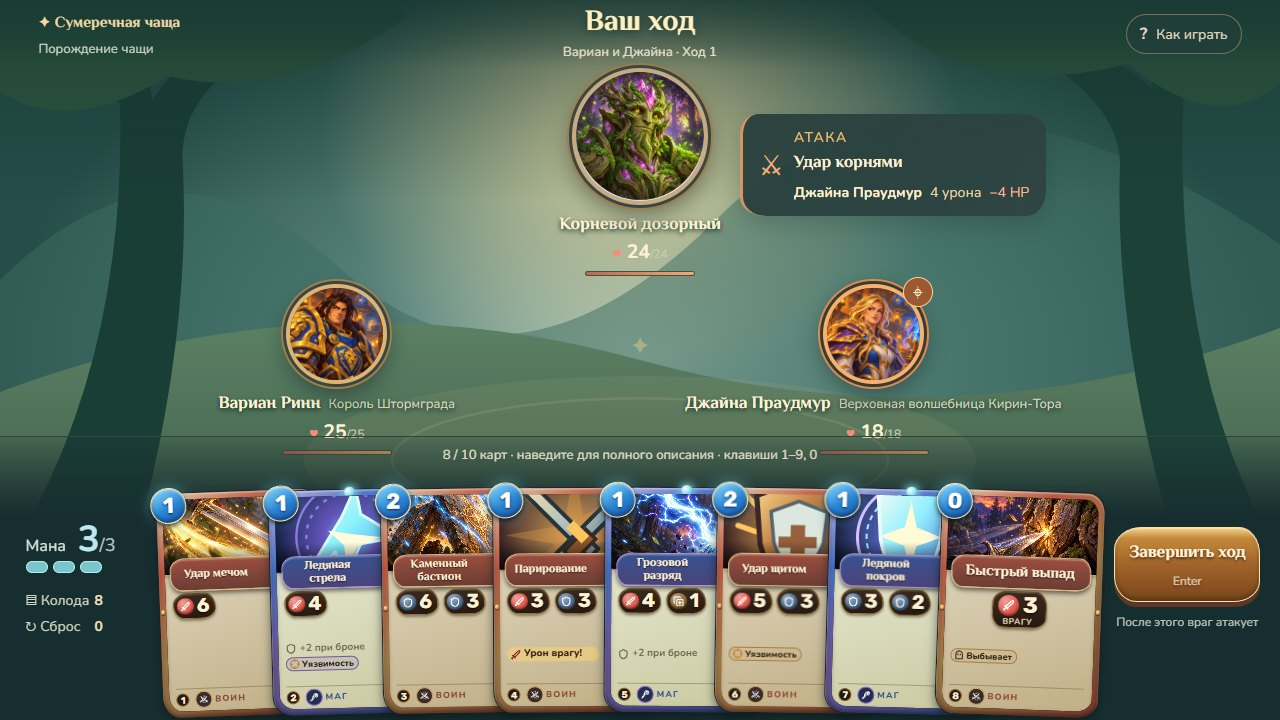
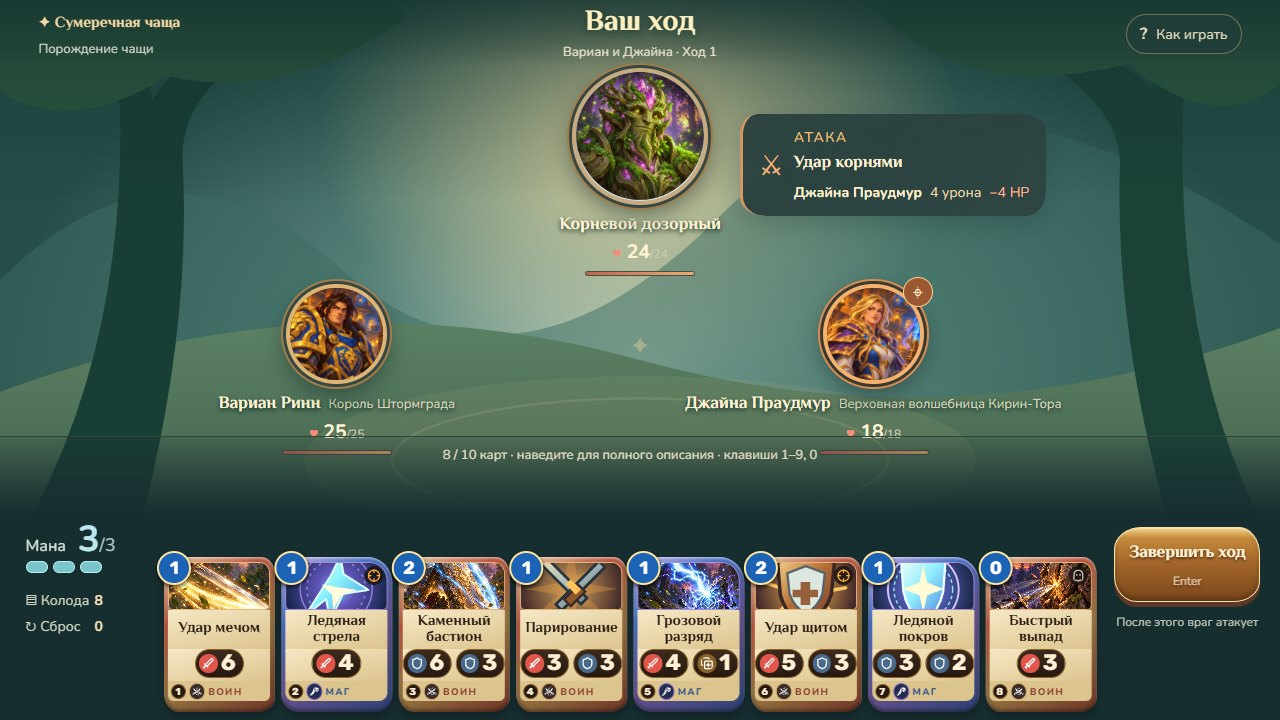
UX stage 2 rev 2: compact tile hand for dense hands
- handMode: full fan while >=75% of each card is visible, otherwise non-overlapping CompactCard tiles
- full card rises from the hovered/focused tile, kept inside the hand row; notes fold on short screens
- drop mana gem glow, trim redundant notes text; tests for handMode and notes
- screenshots and docs updated

Changed region(s): [[0.0938, 0.6722, 0.875, 1.0]]

diff --git a/src/components/BattleHand.vue b/src/components/BattleHand.vue
@@ -6,7 +6,7 @@ import GameTooltip from './GameTooltip.vue'
 import type { HandCardView } from '../composables/useBattle'
 import type { BattlePhase } from '../composables/useBattleAnimation'
 import type { CardBlock } from '../ui/cardDisplay'
-import { fanLayout, handOrder, zoomFactor, zoomShift } from '../ui/handLayout'
+import { handMode, handOrder, TILE_EM_HEIGHT, TILE_EM_WIDTH, zoomFactor, zoomShift } from '../ui/handLayout'
 
 const props = defineProps<{ cards: HandCardView[]; outgoing: HandCardView | null; outgoingIndex: number; drawCount: number; discardCount: number; exhaustedCount: number; phase: BattlePhase; mana: number; maxMana: number; nextMana?: number; nextDraw?: number; drawBoostFrom?: number; drawBoostAmount?: number }>()
 const emit = defineEmits<{ play: [instanceId: string]; endTurn: [] }>()
@@ -58,17 +58,22 @@ const zoom = computed(() => {
   const g = geometry.value
   return zoomFactor(g.bottom, g.dockTop, CARD_HEIGHT_EM * g.em, LIFT_EM * g.em, MAX_ZOOM)
 })
-const fan = computed(() => fanLayout(displayed.value.length, geometry.value.width, cardWidth.value, 0.5 * geometry.value.em))
-const visible = computed(() => fan.value.visible)
-const overlapped = computed(() => fan.value.overlapped)
-const slotX = (index: number) => fan.value.x(index)
+const mode = computed(() => handMode(displayed.value.length, geometry.value.width, cardWidth.value, 0.45 * geometry.value.em))
+const compact = computed(() => mode.value.compact)
+const slotWidth = computed(() => mode.value.slotWidth)
+const visible = computed(() => (compact.value ? 1 : mode.value.layout.visible))
+const overlapped = computed(() => !compact.value && mode.value.layout.overlapped)
+const tileEm = computed(() => slotWidth.value / TILE_EM_WIDTH)
+const slotX = (index: number) => mode.value.layout.x(index)
 
 const active = shallowRef<string | null>(null)
 const activeIndex = computed(() => displayed.value.findIndex(item => item.instanceId === active.value))
 const activeItem = computed(() => (activeIndex.value >= 0 && props.outgoing?.instanceId !== active.value ? displayed.value[activeIndex.value]! : null))
-const shiftFor = (index: number) => zoomShift(geometry.value.left + slotX(index) + cardWidth.value / 2, cardWidth.value * zoom.value, geometry.value.viewport)
+// Kept inside the hand row, so a zoomed end card does not climb over the end-turn button or the mana panel.
+const shiftFor = (index: number) => zoomShift(slotX(index) + slotWidth.value / 2, cardWidth.value * zoom.value, geometry.value.width, 0)
 function slotStyle(index: number) {
-  return { width: cardWidth.value + 'px', transform: `translateX(${slotX(index).toFixed(1)}px)`, zIndex: index === activeIndex.value ? 60 : index + 1 }
+  const tile = compact.value ? { height: TILE_EM_HEIGHT * tileEm.value + 'px', fontSize: tileEm.value + 'px' } : {}
+  return { ...tile, width: slotWidth.value + 'px', transform: `translateX(${slotX(index).toFixed(1)}px)`, zIndex: index === activeIndex.value ? 60 : index + 1 }
 }
 function holderStyle(index: number) {
   const middle = (displayed.value.length - 1) / 2
@@ -81,12 +86,14 @@ const notesStyle = computed(() => {
   const index = activeIndex.value
   if (index < 0) return {}
   const zoomed = cardWidth.value * zoom.value
-  const left = g.left + slotX(index) + shiftFor(index) - (zoomed - cardWidth.value) / 2
+  const left = g.left + slotX(index) + shiftFor(index) - (zoomed - slotWidth.value) / 2
   const right = left + zoomed
   const bottom = Math.max(8, window.innerHeight - g.bottom + LIFT_EM * g.em)
   const base = { bottom: bottom + 'px', maxHeight: `calc(100vh - ${bottom + 16}px)`, fontSize: `${Math.max(13, Math.min(16, g.em * 1.05))}px` }
   return g.viewport - right - 14 >= NOTES_WIDTH ? { ...base, left: right + 14 + 'px' } : { ...base, right: g.viewport - left + 14 + 'px' }
 })
+// Little height above the hand (short screens): fold the notes instead of letting them cover the heroes.
+const briefNotes = computed(() => geometry.value.bottom + LIFT_EM * geometry.value.em - geometry.value.dockTop < 340)
 function enter(item: HandCardView) { if (props.outgoing?.instanceId !== item.instanceId) active.value = item.instanceId }
 function leave(item: HandCardView) { if (active.value === item.instanceId) active.value = null }
 function focusOut(item: HandCardView, event: FocusEvent) {
@@ -106,11 +113,11 @@ watch(() => displayed.value.length, () => { if (activeIndex.value < 0) active.va
     </aside>
     <section class="hand-area" aria-label="Карты в руке">
       <p class="hand-hint">{{ displayed.length }} / 10 карт · наведите для полного описания · клавиши 1–9, 0</p>
-      <div ref="track" class="hand-track" :class="{ 'is-overlapped': overlapped }">
+      <div ref="track" class="hand-track" :class="{ 'is-overlapped': overlapped, 'is-compact': compact }">
         <TransitionGroup name="deal">
           <div v-for="(item, index) in displayed" :key="item.instanceId" class="slot" :class="{ 'is-active': index === activeIndex }" :style="slotStyle(index)" @mouseenter="enter(item)" @mouseleave="leave(item)" @focusin="enter(item)" @focusout="focusOut(item, $event)">
             <div class="holder" :style="holderStyle(index)">
-              <HandCard :card="item.card" :instance-id="item.instanceId" :preview="item.preview" :block="block(item)" :index="index" :vis="index === displayed.length - 1 || index === activeIndex ? 1 : visible" :playing="outgoing?.instanceId === item.instanceId" @play="emit('play', $event)" />
+              <HandCard :card="item.card" :instance-id="item.instanceId" :preview="item.preview" :block="block(item)" :index="index" :vis="index === displayed.length - 1 || index === activeIndex ? 1 : visible" :compact="compact" :active="index === activeIndex" :full-shift="index === activeIndex ? shiftFor(index) : 0" :full-scale="zoom" :full-em="geometry.em" :playing="outgoing?.instanceId === item.instanceId" @play="emit('play', $event)" />
             </div>
           </div>
         </TransitionGroup>
@@ -121,7 +128,7 @@ watch(() => displayed.value.length, () => { if (activeIndex.value < 0) active.va
     <Teleport to="body">
       <Transition name="notes">
         <div v-if="activeItem" class="card-notes-pop" :style="notesStyle" aria-hidden="true">
-          <CardNotes :card="activeItem.card" :preview="activeItem.preview" :block="block(activeItem)" :hotkey="String(activeIndex === 9 ? 0 : activeIndex + 1)" />
+          <CardNotes :brief="briefNotes" :card="activeItem.card" :preview="activeItem.preview" :block="block(activeItem)" :hotkey="String(activeIndex === 9 ? 0 : activeIndex + 1)" />
         </div>
       </Transition>
     </Teleport>
@@ -134,8 +141,8 @@ watch(() => displayed.value.length, () => { if (activeIndex.value < 0) active.va
 .hand-track{position:relative;align-self:end;height:calc(var(--card-height) + 4px);margin-bottom:8px;font-size:calc(var(--card-height) / 16.6)}
 .slot{position:absolute;left:0;bottom:0;height:16.6em;transition:transform var(--dur-base) var(--ease-out),opacity var(--dur-base)}
 .holder{width:100%;height:100%;transform-origin:50% 100%;transform:translateY(var(--drop,0)) rotate(var(--rot,0deg));transition:transform var(--dur-base) var(--ease-out)}
-.slot.is-active .holder{transform:translate(var(--shift,0),calc(-1 * var(--lift))) scale(var(--zoom));transition-duration:var(--dur-fast)}
-.slot.is-active .holder :deep(.sc-rim){box-shadow:0 .9em 1.6em #04101299,inset 0 .1em .12em #fff7,inset 0 -.18em .3em #0006}
+.hand-track:not(.is-compact) .slot.is-active .holder{transform:translate(var(--shift,0),calc(-1 * var(--lift))) scale(var(--zoom));transition-duration:var(--dur-fast)}
+.hand-track:not(.is-compact) .slot.is-active .holder :deep(.sc-rim){box-shadow:0 .9em 1.6em #04101299,inset 0 .1em .12em #fff7,inset 0 -.18em .3em #0006}
 .deal-enter-from,.deal-leave-to{opacity:0}
 .deal-enter-from .holder{transform:translateY(5em) scale(.9)}
 .deal-leave-active{transition:opacity .12s}

diff --git a/src/components/CompactCard.vue b/src/components/CompactCard.vue
@@ -1,0 +1,66 @@
+<script setup lang="ts">
+// Hand tile: the card reduced to what decides a choice at a glance — name, cost, class and the main numbers.
+// Sized in `em` (tile = 7.2em × 10em); the full SpellCard opens on hover/focus. Same colours and soft shapes as the full card.
+import { computed } from 'vue'
+import type { CardDefinition, CardPreview } from '../game/types'
+import { classThemeStyle, getClassTheme } from '../game/classThemes'
+import { cardFace } from '../ui/cardDisplay'
+import type { CardBlock } from '../ui/cardDisplay'
+import { cardArt } from '../ui/cardArt'
+import CardGlyph from './CardGlyph.vue'
+
+const props = defineProps<{ card: CardDefinition; preview: CardPreview; block?: CardBlock | null; hotkey?: string }>()
+const theme = computed(() => getClassTheme(props.card.className))
+const face = computed(() => cardFace(props.card, props.preview))
+const locked = computed(() => props.block?.kind === 'mana')
+const bonus = computed(() => !props.block && props.preview.bonusDamage > 0)
+const style = computed(() => classThemeStyle(props.card.className))
+</script>
+
+<template>
+  <span class="tc" :class="[`tc--${theme.ornament}`, { 'is-locked': locked, 'is-dim': block?.kind === 'phase', 'is-bonus': bonus }]" :style="style" :data-card-class="theme.id">
+    <span class="tc-art">
+      <img :src="cardArt[card.id]" alt="" draggable="false" />
+      <span class="tc-marks"><CardGlyph v-for="tag in face.tags" :key="tag.id" :kind="tag.glyph" /></span>
+      <CardGlyph v-if="locked" kind="lock" class="tc-lock" />
+    </span>
+    <span class="tc-cost" aria-hidden="true">{{ card.cost }}</span>
+    <span class="tc-name">{{ card.name }}</span>
+    <span class="tc-stats">
+      <span v-for="(chip, i) in face.chips" :key="i" class="chip" :class="['chip--' + chip.kind, { 'is-boosted': chip.boosted, 'is-inactive': chip.inactive }]"><CardGlyph :kind="chip.kind" /><b>{{ chip.value }}</b></span>
+    </span>
+    <span class="tc-foot"><kbd v-if="hotkey">{{ hotkey }}</kbd><i class="tc-emblem"><img :src="theme.emblem" alt="" draggable="false" /></i><span>{{ theme.label }}</span></span>
+  </span>
+</template>
+
+<style scoped>
+.tc{position:relative;display:grid;grid-template-rows:3.1em 2.5em 2.1em 1.3em;width:7.2em;height:10em;padding:.3em;border-radius:1.1em .9em 1.2em 1em/.95em 1.15em .9em 1.2em;background:linear-gradient(145deg,color-mix(in srgb,var(--class-accent) 55%,#fff),var(--class-primary) 30%,color-mix(in srgb,var(--class-accent) 70%,#000) 60%,color-mix(in srgb,var(--class-primary) 60%,#000));box-shadow:0 .3em .6em #0a181a99,inset 0 .1em .1em #fff7,inset 0 -.15em .25em #0006;color:var(--parch-ink);text-align:left;font-family:var(--font-ui)}
+.tc--arcane{border-radius:1.6em 1.6em 1.1em 1.2em/1.5em 1.7em 1.2em 1.1em}
+.tc>*{pointer-events:none}
+.tc-art{position:relative;display:block;overflow:hidden;border-radius:.8em .7em .3em .3em;background:var(--class-surface);border:.1em solid color-mix(in srgb,var(--class-accent) 80%,#fff)}
+.tc--arcane .tc-art{border-radius:1.2em 1.2em .3em .3em}
+.tc-art img{position:absolute;inset:0;width:100%;height:100%;object-fit:cover;object-position:center 45%}
+.tc-marks{position:absolute;right:.2em;top:.2em;display:flex;gap:.15em}
+.tc-marks .glyph{width:1.25em;height:1.25em;padding:.2em;border-radius:50%;background:#1b1210d0;color:var(--c-vulnerable)}
+.tc-marks .glyph--exhaust{color:var(--muted)}
+.tc-lock{position:absolute;left:50%;top:50%;width:1.6em;height:1.6em;translate:-50% -50%;padding:.3em;border-radius:50%;background:#1b1210e0;color:var(--c-health)}
+.tc-cost{position:absolute;z-index:2;left:-.35em;top:-.35em;display:grid;place-items:center;width:1.9em;height:1.9em;border-radius:50%;background:var(--c-mana-deep);border:.12em solid var(--brass-1);box-shadow:0 .12em .25em #000a;color:#fff;font:700 1.15em/1 var(--font-num)}
+.tc-name{display:grid;place-items:center;padding:.1em .2em 0;background:linear-gradient(165deg,var(--parch-1),var(--parch-2));text-align:center;font:700 .98em/1.05 var(--font-display);color:var(--parch-ink)}
+.tc-name{display:-webkit-box;-webkit-box-orient:vertical;-webkit-line-clamp:2;overflow:hidden;align-content:center;padding:.3em .25em}
+.tc-stats{display:flex;align-items:center;justify-content:center;gap:.25em;background:linear-gradient(165deg,var(--parch-1),var(--parch-2));padding-bottom:.15em}
+.chip{display:inline-flex;align-items:center;gap:.2em;padding:.15em .45em .15em .25em;border-radius:var(--r-pill);background:linear-gradient(180deg,var(--wood-2),var(--wood-1));border:.08em solid var(--brass-3);color:var(--ink)}
+.chip .glyph{width:1.2em;height:1.2em;padding:.18em;border-radius:50%;color:#fff;background:var(--chip-c)}
+.chip b{font:700 1.45em/1 var(--font-num)}
+.chip--damage{--chip-c:var(--c-health)}.chip--armor{--chip-c:var(--c-armor-deep)}.chip--draw{--chip-c:var(--brass-3)}
+.chip.is-boosted{border-color:var(--c-bonus)}.chip.is-boosted b{color:var(--c-bonus)}
+.chip.is-inactive{opacity:.55;border-style:dashed}
+.tc-foot{display:flex;align-items:center;gap:.3em;padding:.1em .3em 0;border-radius:0 0 .6em .6em;background:linear-gradient(165deg,var(--parch-2),var(--parch-2));font:800 .62em/1 var(--font-ui);letter-spacing:var(--ls-caps);color:color-mix(in srgb,var(--class-primary) 70%,var(--parch-ink))}
+.tc--arcane .tc-foot{border-radius:0 0 .9em .9em}
+.tc-foot kbd{display:inline-grid;place-items:center;min-width:1.5em;height:1.5em;border-radius:var(--r-1);border:.08em solid var(--brass-3);background:var(--wood-1);color:var(--ink);font:700 1.05em/1 var(--font-num)}
+.tc-emblem{display:grid;place-items:center;width:1.7em;height:1.7em;padding:.25em;border-radius:50%;background:var(--class-surface);border:.1em solid var(--class-accent)}
+.tc-emblem img{width:100%;height:100%;display:block}
+.is-locked{filter:saturate(.45) brightness(.8)}
+.is-locked .tc-cost{background:#4b4249;color:var(--c-health);border-color:var(--c-health)}
+.is-dim{filter:saturate(.7) brightness(.88)}
+.is-bonus{box-shadow:0 0 0 .12em var(--c-bonus),var(--glow-bonus),0 .3em .6em #0a181a99}
+</style>

diff --git a/src/ui/cardDisplay.test.ts b/src/ui/cardDisplay.test.ts
@@ -3,10 +3,10 @@ import { createSSRApp, h } from 'vue'
 import { renderToString } from 'vue/server-renderer'
 import { createBattle, previewCard } from '../game/battle'
 import { availableDungeonNodes, claimDungeonReward, createCampaignBattle, createDungeonRun, deriveDungeonSeed, dungeonEncounter, dungeonNode, dungeonRewardOptions, enterDungeonNode, resolveDungeonBattle } from '../game/campaign'
-import { cardDefinition, cards, encounters, MAX_HAND_SIZE } from '../game/types'
+import { cardDefinition, cards, encounters } from '../game/types'
 import type { BattleState, CardDefinition, CardId } from '../game/types'
 import { cardFace, cardNotes, damageParts, neutralPreview, ruleLines, spokenSummary, statChips } from './cardDisplay'
-import { fanLayout, handOrder, zoomFactor, zoomShift } from './handLayout'
+import { COMPACT_BELOW, fanLayout, handMode, handOrder, zoomFactor, zoomShift } from './handLayout'
 import SpellCard from '../components/SpellCard.vue'
 import CardReward from '../components/CardReward.vue'
 
@@ -28,7 +28,8 @@ describe('damage chips mirror the engine preview', () => {
     expect(damageParts(p).map(part => [part.kind, part.amount])).toEqual([['base', 4], ['armor', 2], ['vulnerability', 3]])
     const notes = cardNotes(card('frostbolt'), p)
     expect(notes.damage?.formula).toBe('4 + 2 + 3 = 9')
-    expect(notes.conditions.map(line => line.tone)).toEqual(['on', 'on'])
+    expect(notes.conditions).toEqual([])
+    expect(notes.keywords.map(key => key.name)).toEqual(['Уязвимость'])
   })
 
   it('adds only the bonuses that are active', () => {
@@ -95,7 +96,6 @@ describe('armor, draw, exhaust and keywords', () => {
     expect(chips).toHaveLength(1)
     expect(chips[0]).toMatchObject({ kind: 'draw', value: 1, caption: 'карта' })
     expect(cardNotes(card('thunderbolt'), preview('thunderbolt', board())).draw).toBe(1)
-    expect(cardNotes(card('arcane-insight'), preview('arcane-insight', board())).keywords.some(key => key.glyph === 'draw' && key.text.includes(String(MAX_HAND_SIZE)))).toBe(true)
   })
 
   it('marks exhaust and explains it', () => {
@@ -224,5 +224,20 @@ describe('hand layout', () => {
     expect(zoomFactor(712, 436, 224, 7)).toBeLessThan(1.32)
     expect(zoomFactor(712, 436, 224, 7)).toBeGreaterThanOrEqual(1.1)
     expect(zoomFactor(900, 100, 224, 7)).toBe(1.32)
+  })
+
+  it('switches to non-overlapping tiles when a fan would hide too much, and every tile stays reachable', () => {
+    const wide = handMode(10, 1380, 210, 9)
+    const narrow = handMode(10, 950, 162, 7)
+    expect(narrow.compact).toBe(true)
+    expect(narrow.layout.overlapped).toBe(false)
+    expect(narrow.slotWidth).toBeLessThanOrEqual(162 * 0.8)
+    for (let i = 1; i < 10; i += 1) expect(narrow.layout.x(i) - narrow.layout.x(i - 1)).toBeGreaterThanOrEqual(narrow.slotWidth)
+    expect(narrow.layout.x(9) + narrow.slotWidth).toBeLessThanOrEqual(950 + 0.001)
+    expect(narrow.slotWidth).toBeGreaterThan(80)
+    // a roomy row keeps full cards; the rule is the visible fraction of the fan
+    expect(handMode(3, 950, 162, 7).compact).toBe(false)
+    expect(wide.compact).toBe(fanLayout(10, 1380, 210, 9).visible < COMPACT_BELOW)
+    expect(handMode(0, 950, 162, 7).compact).toBe(false)
   })
 })

diff --git a/src/ui/cardDisplay.ts b/src/ui/cardDisplay.ts
@@ -1,7 +1,7 @@
 // Presentation model for a card: turns a CardDefinition plus the engine's CardPreview into glanceable chips,
 // short rule lines and the detailed notes shown on hover. It only presents numbers the engine already computed
 // (previewCard); it never re-implements damage rules. New cards need effects/tags in types.ts, not UI code.
-import { encounters, MAX_HAND_SIZE, statusDefinitions } from '../game/types'
+import { encounters, statusDefinitions } from '../game/types'
 import type { BattleState, CardDefinition, CardEffect, CardPreview, HeroId } from '../game/types'
 import { createBattle, previewCard } from '../game/battle'
 
@@ -142,10 +142,11 @@ export function cardNotes(card: CardDefinition, preview: CardPreview, context: '
   const armor = context === 'neutral'
     ? card.effects.flatMap(effect => effect.type === 'armor' ? [{ hero: effect.target, name: effect.target === 'threatened' ? 'цели врага' : effect.target === 'partner' ? 'напарнику' : heroDative[effect.target], amount: effect.amount }] : [])
     : (['warrior', 'mage'] as const).map(hero => ({ hero, name: heroName[hero], amount: preview.armor[hero] })).filter(item => item.amount > 0)
-  if (armor.length && context === 'board') keywords.push({ glyph: 'armor', name: 'Броня', text: 'Поглощает урон и исчезает после следующей атаки по герою. «Цель» — герой, которого атакует противник.' })
+  if (context === 'board' && card.effects.some(effect => effect.type === 'armor' && effect.target === 'threatened')) keywords.push({ glyph: 'armor', name: 'Броня', text: 'Поглощает урон и исчезает после следующей атаки по герою. «Цель» — герой, которого атакует противник.' })
   if (card.exhaust) keywords.push({ glyph: 'exhaust', name: 'Выбывает', text: 'Эта копия не вернётся в колоду до конца боя.' })
-  if (preview.draw > 0 && context === 'board') keywords.push({ glyph: 'draw', name: 'Добор', text: `Берёт карты из колоды; в руке не больше ${MAX_HAND_SIZE}, лишние остаются в колоде.` })
 
+  // The sum above already names every active bonus, so repeating them as sentences only makes the notes taller.
+  const shownConditions = parts.length > 1 ? conditions.filter(line => line.tone !== 'on' || line.glyph === 'damage') : conditions
   return {
     title: card.name,
     subtitle: `${card.className === 'warrior' ? 'Воин' : 'Маг'} · ${kindLabel[card.kind]} · ${card.cost} ${plural(card.cost, 'мана', 'маны', 'маны')}`,
@@ -153,7 +154,7 @@ export function cardNotes(card: CardDefinition, preview: CardPreview, context: '
     damage: preview.damage > 0
       ? { total: preview.damage, parts, formula: parts.length > 1 ? `${parts.map(part => part.amount).join(' + ')} = ${preview.damage}` : String(preview.damage), armorDamage: preview.armorDamage, healthDamage: preview.healthDamage }
       : null,
-    armor, draw: preview.draw, conditions, keywords,
+    armor, draw: preview.draw, conditions: shownConditions, keywords,
   }
 }
 

diff --git a/src/components/HandCard.vue b/src/components/HandCard.vue
@@ -6,8 +6,9 @@ import { getClassTheme } from '../game/classThemes'
 import { spokenSummary } from '../ui/cardDisplay'
 import type { CardBlock } from '../ui/cardDisplay'
 import SpellCard from './SpellCard.vue'
+import CompactCard from './CompactCard.vue'
 
-const props = defineProps<{ card: CardDefinition; instanceId: string; preview: CardPreview; block: CardBlock | null; playing: boolean; index: number; vis?: number }>()
+const props = defineProps<{ card: CardDefinition; instanceId: string; preview: CardPreview; block: CardBlock | null; playing: boolean; index: number; vis?: number; compact?: boolean; active?: boolean; fullShift?: number; fullScale?: number; fullEm?: number }>()
 const emit = defineEmits<{ play: [instanceId: string] }>()
 const hotkey = computed(() => String(props.index === 9 ? 0 : props.index + 1))
 const label = computed(() => `${hotkey.value}. ${props.card.name}, ${props.card.cost} маны. Класс: ${getClassTheme(props.card.className).name}. ${spokenSummary(props.card, props.preview)}${props.block ? ' ' + props.block.text : ''}`)
@@ -19,14 +20,23 @@ function play() {
 
 <template>
   <button :id="'card-' + instanceId" class="hand-card" :class="{ 'is-playing': playing }" :aria-disabled="!!block || playing" :aria-label="label" @click="play">
-    <SpellCard :card="card" :preview="preview" :block="block" :hotkey="hotkey" :vis="vis" />
+    <template v-if="compact">
+      <CompactCard :card="card" :preview="preview" :block="block" :hotkey="hotkey" />
+      <span v-if="active" class="hand-full" :style="{ fontSize: (fullEm ?? 14) + 'px', '--shift': (fullShift ?? 0) + 'px', '--zoom': String(fullScale ?? 1.2) }"><SpellCard :card="card" :preview="preview" :block="block" :hotkey="hotkey" /></span>
+    </template>
+    <SpellCard v-else :card="card" :preview="preview" :block="block" :hotkey="hotkey" :vis="vis" />
   </button>
 </template>
 
 <style scoped>
-.hand-card{display:block;width:12em;height:16.6em;padding:0;border:0;background:none;border-radius:1.6em;font-size:inherit;text-align:left;cursor:pointer}
+.hand-card{position:relative;display:block;width:100%;height:100%;padding:0;border:0;background:none;border-radius:1.6em;font-size:inherit;text-align:left;cursor:pointer}
 .hand-card[aria-disabled="true"]{cursor:default}
 .hand-card:focus-visible{outline:var(--focus-ring);outline-offset:.25em}
 .is-playing{pointer-events:none;animation:card-play .36s ease-in forwards}
 @keyframes card-play{to{transform:translateY(-6em) scale(.55);opacity:0}}
+</style>
+<style>
+/* Compact hand: the full card rises from the tile, centred over it, nudged back inside the screen. */
+.hand-full{position:absolute;left:50%;bottom:0;z-index:5;display:block;transform-origin:50% 100%;transform:translateX(calc(-50% + var(--shift))) translateY(-.5em) scale(var(--zoom));animation:hand-full-in var(--dur-fast) var(--ease-out);pointer-events:none}
+@keyframes hand-full-in{from{opacity:0;transform:translateX(calc(-50% + var(--shift))) translateY(.4em) scale(calc(var(--zoom) * .92))}}
 </style>

diff --git a/src/components/CardNotes.vue b/src/components/CardNotes.vue
@@ -8,13 +8,13 @@ import type { CardBlock } from '../ui/cardDisplay'
 import { classThemeStyle } from '../game/classThemes'
 import CardGlyph from './CardGlyph.vue'
 
-const props = defineProps<{ card: CardDefinition; preview: CardPreview; block?: CardBlock | null; hotkey?: string; mode?: 'play' | 'choose' }>()
+const props = defineProps<{ card: CardDefinition; preview: CardPreview; block?: CardBlock | null; hotkey?: string; mode?: 'play' | 'choose'; brief?: boolean }>()
 const notes = computed(() => cardNotes(props.card, props.preview, props.mode === 'choose' ? 'neutral' : 'board'))
 const footer = computed(() => props.block?.text ?? (props.mode === 'choose' ? 'Нажмите, чтобы взять карту.' : `Нажмите или клавиша ${props.hotkey ?? ''} — разыграть.`))
 </script>
 
 <template>
-  <aside class="notes" :style="classThemeStyle(card.className)">
+  <aside class="notes" :class="{ 'notes--brief': brief }" :style="classThemeStyle(card.className)">
     <header><strong v-if="mode !== 'choose'">{{ notes.title }}</strong><small>{{ notes.subtitle }}</small></header>
     <p class="notes-text">{{ notes.description }}</p>
     <div v-if="notes.damage" class="notes-math notes-math--damage">
@@ -59,6 +59,9 @@ header small{font:var(--fw-bold) .68em/1.2 var(--font-ui);letter-spacing:.1em;te
 .notes-keys dt{display:flex;align-items:center;gap:.4em;font:var(--fw-bold) .82em/1.2 var(--font-ui)}
 .notes-keys dt .glyph{width:1.2em;height:1.2em;color:var(--brass-4)}
 .notes-keys dd{margin:.15em 0 0;font:var(--fw-semibold) .76em/1.3 var(--font-ui);color:var(--parch-ink-soft)}
+/* Short screens: the scroll must not climb over the heroes, so the keyword explanations (also on the enemy portrait) fold to titles. */
+.notes--brief .notes-keys dd,.notes--brief .notes-sub{display:none}
+.notes--brief .notes-keys div{padding:.25em .6em}
 footer{margin-top:.55em;padding-top:.4em;border-top:.08em solid #8a622c88;font:var(--fw-bold) .76em/1.3 var(--font-ui);color:#4f6d2a}
 footer.bad{color:#9a2a1c}
 </style>

diff --git a/src/components/SpellCard.vue b/src/components/SpellCard.vue
@@ -115,7 +115,7 @@ const style = computed(() => ({ ...classThemeStyle(props.card.className), '--vis
 .sc-class{display:flex;align-items:center;gap:.35em;font:800 .64em/1 var(--font-ui);letter-spacing:var(--ls-caps);color:color-mix(in srgb,var(--class-primary) 70%,var(--parch-ink))}
 .sc-emblem{display:grid;place-items:center;width:1.9em;height:1.9em;padding:.28em;border-radius:50%;background:var(--class-surface);border:.1em solid var(--class-accent)}
 .sc-emblem img{width:100%;height:100%;display:block}
-.sc-cost{position:absolute;z-index:3;left:-.45em;top:-.45em;display:grid;place-items:center;width:2.7em;height:2.7em;border-radius:var(--shape-medallion);background:var(--mat-gem-mana);border:.14em solid var(--brass-1);box-shadow:0 .2em .4em #000a,inset 0 .1em .15em #fff9,inset 0 -.2em .3em #0b2a6a88,var(--glow-mana);color:#fff}
+.sc-cost{position:absolute;z-index:3;left:-.45em;top:-.45em;display:grid;place-items:center;width:2.7em;height:2.7em;border-radius:var(--shape-medallion);background:var(--mat-gem-mana);border:.14em solid var(--brass-1);box-shadow:0 .2em .4em #000a,inset 0 .1em .15em #fff9,inset 0 -.2em .3em #0b2a6a88;color:#fff}
 .sc-cost b{font:700 1.6em/1 var(--font-num);text-shadow:0 .06em .1em #0b2a6a}
 .is-locked .sc-rim,.is-locked .sc-body{filter:saturate(.45) brightness(.78)}
 .is-locked .sc-cost{background:linear-gradient(150deg,#8a7f86,#4b4249);box-shadow:0 .2em .4em #000a,inset 0 .1em .15em #fff6;border-color:var(--c-health)}

diff --git a/src/ui/handLayout.ts b/src/ui/handLayout.ts
@@ -39,3 +39,26 @@ export function zoomShift(center: number, zoomedWidth: number, viewport: number,
 export function zoomFactor(trackBottom: number, dockTop: number, cardHeight: number, lift: number, maxZoom = 1.32, minZoom = 1.1, allowance = 10): number {
   return Math.max(minZoom, Math.min(maxZoom, (trackBottom - dockTop + allowance) / (cardHeight + lift)))
 }
+
+/** Below this visible fraction a fan hides too much of every card; the hand switches to compact tiles instead. */
+export const COMPACT_BELOW = 0.75
+export const TILE_EM_WIDTH = 7.2
+export const TILE_EM_HEIGHT = 10
+
+export interface HandMode {
+  compact: boolean
+  /** Width of one slot: the full card in a fan, the tile in compact mode. */
+  slotWidth: number
+  layout: FanLayout
+}
+
+/**
+ * Full cards in an overlapping fan while enough of each stays visible; otherwise one row of non-overlapping tiles
+ * (name, cost, main numbers) whose full card opens on hover/focus. Every card is always reachable.
+ */
+export function handMode(count: number, width: number, cardWidth: number, gap: number): HandMode {
+  const fan = fanLayout(count, width, cardWidth, gap)
+  if (count === 0 || fan.visible >= COMPACT_BELOW) return { compact: false, slotWidth: cardWidth, layout: fan }
+  const tile = Math.min(cardWidth * 0.8, (width - (count - 1) * gap) / count)
+  return { compact: true, slotWidth: tile, layout: fanLayout(count, width, tile, gap) }
+}

diff --git a/docs/ux-stage2-cards-hand.md b/docs/ux-stage2-cards-hand.md
@@ -58,6 +58,29 @@
 - Клавиши `1–9`, `0`, `Enter` не менялись; перетаскивания нет. Кнопка карты остаётся фокусируемой при недоступности (`aria-disabled`), причина — в `aria-label` и свитке.
 - Колонки панели (мана / конец хода) слегка сужены, чтобы руке досталось больше ширины. Сама панель маны и кнопка хода — этап 3.
 
+## Ревизия 2: компактная рука (по обратной связи)
+
+Проблема: при 10 картах на 1280×720 веер перекрывал ~50 % каждой карты; имена не читались, десять светящихся самоцветов маны сливались в ряд, оформление пряталось под соседями.
+
+Рассмотренные варианты (ширина ряда ≈ 950 px при 1280):
+
+| Вариант | Итог |
+|---|---|
+| A. Веер полных карт, меньше размером | чтобы убрать перекрытие, карта должна быть ~85 px — имя и числа нечитаемы |
+| B. Веер + раздвигание соседей при наведении | соседи «прыгают», ряд упирается в кнопку конца хода |
+| **C. Ряд компактных плиток + полная карта по наведению** | **выбран**: все 10 видны целиком, без перекрытия, имена в 1–2 строки |
+
+Как работает (`handMode` в `src/ui/handLayout.ts`, `CompactCard.vue`):
+
+- Пока веер оставляет видимыми ≥ 75 % карты, рука показывает полные карты (ровное перекрытие). Иначе — один ряд **неперекрывающихся плиток** шириной до 0.8 ширины карты (≈ 90 px при 10 картах на 1280, ≈ 135 px на 1920).
+- Плитка: миниатюра арта, маленький плоский значок стоимости (без свечения), имя в 1–2 строки на пергаменте, главные числа (иконка + цифра; золотые при активном бонусе, пунктир у условных), горячая клавиша и класс. Знаки «Уязвимость»/«Выбывает» — значками на арте; нехватка маны — обесцвеченная плитка, замок и красная цифра.
+- Наведение или фокус: из плитки поднимается **полная карта** (`SpellCard`, до ×1.32, не выше панели руки) по центру над плиткой, удерживаемая внутри ряда руки, рядом — пергаментный свиток. Плитка остаётся под ней; клик, `1–9`, `0`, `Tab` работают как раньше.
+- Свиток на низких экранах (< 340 px над рукой) складывает пояснения ключевых слов в заголовки, чтобы не закрывать героев; в свитке убраны повторяющиеся предложения о бонусах (суммарная таблица их уже называет) и общие глоссарии «Броня»/«Добор» (кроме пояснения «цели»).
+- Свечение самоцвета стоимости на полной карте убрано: цифры маны больше не перетягивают внимание.
+- Боевые правила, `BattleHand`-API и порядок карт не менялись; режимы плавно переключаются при изменении числа карт.
+
+Новые скриншоты: `after-1280-hand10-nohover`, `after-1280-hand10-mid-hover`, `after-1280-hand10-edge-hover`, `after-1280-hand10-first-hover`, `after-1920-hand10-nohover`, `after-1920-hand10-mid-hover`, `after-1280-hand8`, `after-1280-hand8-mid-hover`, `after-1920-hand8`, `after-1920-hand10-bonus` (в `docs/screenshots/stage2/`).
+
 ## Награда
 
 `CardReward.vue` использует `SpellCard` и `CardNotes mode="choose"`. Масштаб считается так, чтобы три или пять карт вместе с описанием помещались по высоте и ширине (1280×720 с пятью картами — без прокрутки). `artOverrides` удалён вместе с устаревшей страницей предпросмотра.
@@ -91,14 +114,14 @@
 
 Автоматически (Edge, 1280×720, `reduced-motion`): Tab фокусирует карту и открывает свиток, `Esc` закрывает; клавиши `2` и `0`, а также клик играют карту; порядок оставшихся карт сохраняется; в консоли нет ошибок (единственный 404 — `favicon.ico`). Пройдено три хода реальной встречи через `App.vue` с картой, боем и добором.
 
-Тесты (`src/ui/cardDisplay.test.ts`, 19): итоговый урон и слагаемые (4+2+3=9), отсутствие лишних бонусов на пустой доске для всех карт, Уязвимость не расходуется картой без урона, условный урон Парирования в обоих состояниях, адресаты брони (сумма совпадает с движком), добор, выбывание, глоссарий, ограничения лицевой стороны для **каждого** определения в трёх состояниях доски, SSR-рендер `SpellCard` для всех карт, экран награды (порядок и состав, `claimDungeonReward` добавляет выбранную карту), геометрия веера для 1/4/8/10 карт, порядок руки, удержание в экране и предел увеличения.
+Тесты (`src/ui/cardDisplay.test.ts`, 20): итоговый урон и слагаемые (4+2+3=9), отсутствие лишних бонусов на пустой доске для всех карт, Уязвимость не расходуется картой без урона, условный урон Парирования в обоих состояниях, адресаты брони (сумма совпадает с движком), добор, выбывание, глоссарий, ограничения лицевой стороны для **каждого** определения в трёх состояниях доски, SSR-рендер `SpellCard` для всех карт, экран награды (порядок и состав, `claimDungeonReward` добавляет выбранную карту), геометрия веера для 1/4/8/10 карт, порядок руки, удержание в экране и предел увеличения.
 
-Команды: `npm test` (161 тест), `npm run build`, `npm run balance:smoke`, `npm run scenarios` — без ошибок; игровые числа не менялись.
+Команды: `npm test` (162 теста), `npm run build`, `npm run balance:smoke`, `npm run scenarios` — без ошибок; игровые числа не менялись.
 
 ## Ограничения и дальнейшее
 
 - Без `@vue/test-utils`/DOM-окружения клики по компонентам не тестируются автоматически; выбор награды проверен через SSR-состав и правила кампании, взаимодействие — вручную и скриптом браузера.
-- При 10 картах на 1280×720 перекрыто примерно 50 %; вторая цифра сжата до «иконка + число», условия сокращены. Полное описание — в свитке при наведении/фокусе.
+- Плитки показывают до двух чисел и значки ключевых слов; условия («+2 при броне Джайны») видны только на полной карте и в свитке при наведении/фокусе.
 - Иллюстрации карт те же (часть — временные SVG); окно арта небольшое (5.6em), чтобы поместились числа и условия. Новые арты стоит готовить с главным действием в центре кадра.
 - Цвета пергамента/ветвей иконок частично заданы `color-mix` от токенов; отдельные токены под них — задача для этапа токенов, если понадобится.
 - Директива `v-fit-text` больше не используется картами (имена переносятся в 1–2 строки); файл оставлен для других экранов.

diff --git a/AGENTS.md b/AGENTS.md
@@ -33,6 +33,7 @@ src/
     CardReward.vue           Выбор карты после победы
     RestSite.vue             Распределение лечения на привале
     HandCard.vue             Кнопка карты в руке (клик/клавиатура) вокруг SpellCard
+    CompactCard.vue          Компактная плитка в руке при 8–10 картах (имя, стоимость, главные числа)
     SpellCard.vue            Единая лицевая сторона карты в em (рука и награда); CardNotes.vue — свиток с полным описанием; CardGlyph.vue — Lucide-иконки эффектов
     HandLab.vue              Dev-лаборатория (card-preview.html): реальные доска/рука/награда в воспроизводимых состояниях
     HeroPortrait.vue         Переиспользуемая рамка и подписи портрета
